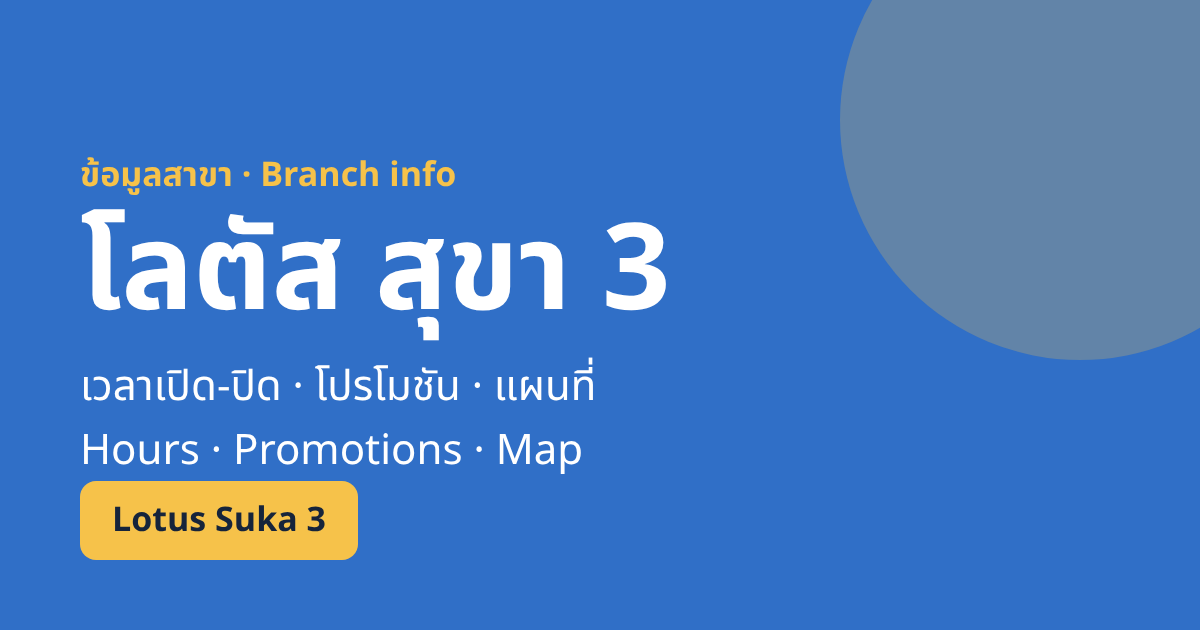
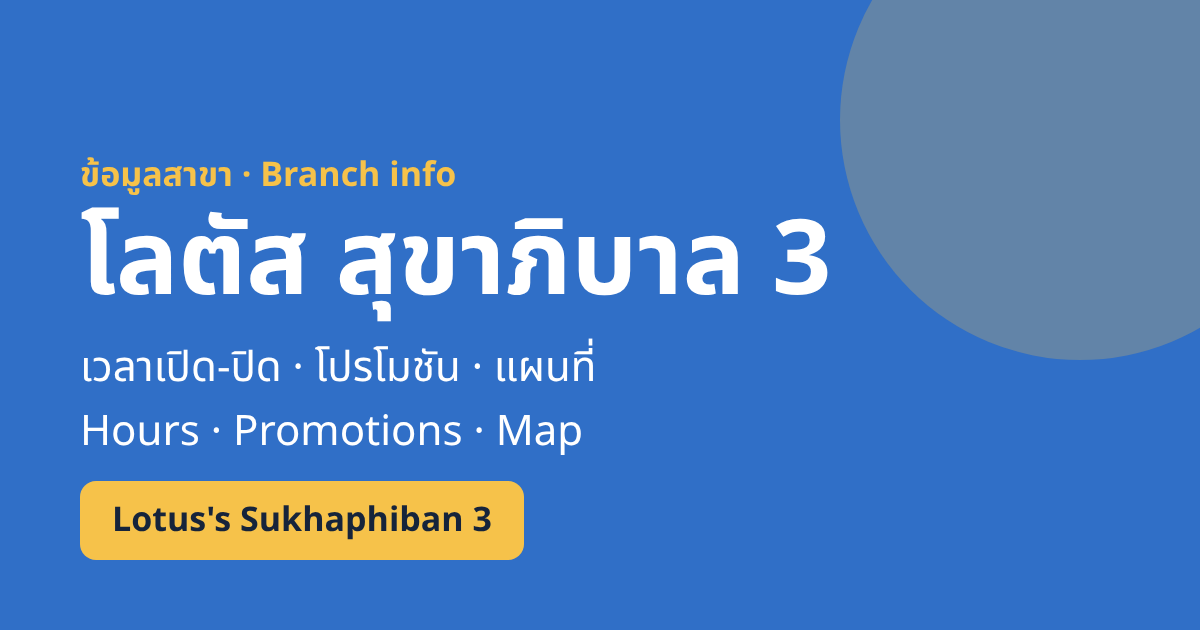
Use branch name/coordinates/map link from Google Maps (Sukhaphiban 3)
Claude-Session: https://claude.ai/code/session_01LnhFyKSePB6EWg2huw5kvz

Changed region(s): [[0.0617, 0.3317, 0.6167, 0.6333], [0.0617, 0.6635, 0.4933, 0.9048], [0.6475, 0.3317, 0.7092, 0.4825]]

diff --git a/index.html b/index.html
@@ -3,8 +3,8 @@
 <head>
 <meta charset="utf-8">
 <meta name="viewport" content="width=device-width, initial-scale=1">
-<title>โลตัส สุขา 3 เวลาเปิด-ปิด โปรโมชัน เบอร์โทร แผนที่</title>
-<meta name="description" content="ข้อมูลสาขาโลตัส สุขา 3: เวลาเปิด-ปิด โปรโมชันประจำสัปดาห์ เบอร์โทร แผนที่นำทาง ที่จอดรถ และร้านค้าในศูนย์">
+<title>โลตัส สุขาภิบาล 3 เวลาเปิด-ปิด โปรโมชัน เบอร์โทร แผนที่</title>
+<meta name="description" content="ข้อมูลสาขาโลตัส สุขาภิบาล 3: เวลาเปิด-ปิด โปรโมชันประจำสัปดาห์ เบอร์โทร แผนที่นำทาง ที่จอดรถ และร้านค้าในศูนย์">
 <meta name="theme-color" content="#306FC7">
 
 
@@ -13,14 +13,14 @@
 <link rel="alternate" hreflang="en" href="https://waranyulotuss.github.io/lotus-suka3/en/">
 <link rel="alternate" hreflang="x-default" href="https://waranyulotuss.github.io/lotus-suka3/">
 <meta property="og:type" content="website">
-<meta property="og:site_name" content="โลตัส สุขา 3">
-<meta property="og:title" content="โลตัส สุขา 3 เวลาเปิด-ปิด โปรโมชัน เบอร์โทร แผนที่">
-<meta property="og:description" content="ข้อมูลสาขาโลตัส สุขา 3: เวลาเปิด-ปิด โปรโมชันประจำสัปดาห์ เบอร์โทร แผนที่นำทาง ที่จอดรถ และร้านค้าในศูนย์">
+<meta property="og:site_name" content="โลตัส สุขาภิบาล 3">
+<meta property="og:title" content="โลตัส สุขาภิบาล 3 เวลาเปิด-ปิด โปรโมชัน เบอร์โทร แผนที่">
+<meta property="og:description" content="ข้อมูลสาขาโลตัส สุขาภิบาล 3: เวลาเปิด-ปิด โปรโมชันประจำสัปดาห์ เบอร์โทร แผนที่นำทาง ที่จอดรถ และร้านค้าในศูนย์">
 <meta property="og:url" content="https://waranyulotuss.github.io/lotus-suka3/">
 <meta property="og:image" content="https://waranyulotuss.github.io/lotus-suka3/assets/img/og.png">
 <meta property="og:image:width" content="1200">
 <meta property="og:image:height" content="630">
-<meta property="og:image:alt" content="โลตัส สุขา 3 ข้อมูลสาขา">
+<meta property="og:image:alt" content="โลตัส สุขาภิบาล 3 ข้อมูลสาขา">
 <meta property="og:locale" content="th_TH">
 <meta property="og:locale:alternate" content="en_US">
 <meta name="twitter:card" content="summary_large_image">
@@ -33,10 +33,15 @@
 {
   "@context": "https://schema.org",
   "@type": "GroceryStore",
-  "name": "โลตัส สุขา 3",
+  "name": "โลตัส สุขาภิบาล 3",
   "url": "https://waranyulotuss.github.io/lotus-suka3/",
   "image": "https://waranyulotuss.github.io/lotus-suka3/assets/img/og.png",
-  "inLanguage": "th"
+  "inLanguage": "th",
+  "geo": {
+    "@type": "GeoCoordinates",
+    "latitude": 13.8067835,
+    "longitude": 100.7250887
+  }
 }
 </script>
 <script>try{if(localStorage.getItem('lang')==='en'&&!/[?&]nolang/.test(location.search)){location.replace('en/'+location.search+location.hash)}}catch(e){}</script>
@@ -45,7 +50,7 @@
 <a class="skip" href="#main" data-i18n="skip">ข้ามไปเนื้อหา</a>
 <header class="top">
   <div class="top__row">
-    <a class="brand" href="./" aria-label="โลตัส สุขา 3"><span class="brand__mark" aria-hidden="true"></span><span data-brand>สาขา สุขา 3</span></a>
+    <a class="brand" href="./" aria-label="โลตัส สุขาภิบาล 3"><span class="brand__mark" aria-hidden="true"></span><span data-brand>สาขา สุขาภิบาล 3</span></a>
     <a class="langbtn" href="en/" hreflang="en" lang="en" data-setlang="en" aria-label="Switch to English" data-i18n-attr="aria-label:lang.switch.label"><span data-i18n="lang.switch">English</span></a>
   </div>
   <nav class="top__nav" aria-label="เมนูหลัก" data-i18n-attr="aria-label:nav.label"><a href="#promos" data-i18n="nav.promos">โปรโมชัน</a><a href="#services" data-i18n="nav.services">บริการ</a><a href="#visit" data-i18n="nav.visit">เดินทาง</a><a href="#hours" data-i18n="nav.hours">เวลา/ติดต่อ</a><a href="#order" data-i18n="nav.order">สั่งออนไลน์</a></nav>
@@ -55,7 +60,7 @@
 <section class="hero" id="top">
   <div class="wrap hero__in">
     <p class="hero__kicker" data-i18n="hero.kicker">ข้อมูลสาขา</p>
-    <h1 data-brand-name>โลตัส สุขา 3</h1>
+    <h1 data-brand-name>โลตัส สุขาภิบาล 3</h1>
     <p class="hero__tag" data-i18n="hero.tagline">เวลาเปิด-ปิด โปรโมชัน และเส้นทางมาสาขา ครบในหน้าเดียว</p>
     <p class="status" id="status" role="status" aria-live="polite"><span class="status__dot" aria-hidden="true"></span><strong id="status-main" data-i18n="status.loading">กำลังตรวจสอบเวลา…</strong><span id="status-sub"></span></p>
     <div class="actions">

diff --git a/en/index.html b/en/index.html
@@ -3,8 +3,8 @@
 <head>
 <meta charset="utf-8">
 <meta name="viewport" content="width=device-width, initial-scale=1">
-<title>Lotus Suka 3 – Opening Hours, Promotions, Phone, Map</title>
-<meta name="description" content="Lotus Suka 3 branch info: opening hours, weekly promotions, phone number, map directions, parking and in-mall shops.">
+<title>Lotus's Sukhaphiban 3 – Hours, Promotions, Phone, Map</title>
+<meta name="description" content="Lotus's Sukhaphiban 3 branch info: opening hours, weekly promotions, phone number, map directions, parking and in-mall shops.">
 <meta name="theme-color" content="#306FC7">
 
 
@@ -13,14 +13,14 @@
 <link rel="alternate" hreflang="en" href="https://waranyulotuss.github.io/lotus-suka3/en/">
 <link rel="alternate" hreflang="x-default" href="https://waranyulotuss.github.io/lotus-suka3/">
 <meta property="og:type" content="website">
-<meta property="og:site_name" content="Lotus Suka 3">
-<meta property="og:title" content="Lotus Suka 3 – Opening Hours, Promotions, Phone, Map">
-<meta property="og:description" content="Lotus Suka 3 branch info: opening hours, weekly promotions, phone number, map directions, parking and in-mall shops.">
+<meta property="og:site_name" content="Lotus's Sukhaphiban 3">
+<meta property="og:title" content="Lotus's Sukhaphiban 3 – Hours, Promotions, Phone, Map">
+<meta property="og:description" content="Lotus's Sukhaphiban 3 branch info: opening hours, weekly promotions, phone number, map directions, parking and in-mall shops.">
 <meta property="og:url" content="https://waranyulotuss.github.io/lotus-suka3/en/">
 <meta property="og:image" content="https://waranyulotuss.github.io/lotus-suka3/assets/img/og.png">
 <meta property="og:image:width" content="1200">
 <meta property="og:image:height" content="630">
-<meta property="og:image:alt" content="Lotus Suka 3 branch information">
+<meta property="og:image:alt" content="Lotus's Sukhaphiban 3 branch information">
 <meta property="og:locale" content="en_US">
 <meta property="og:locale:alternate" content="th_TH">
 <meta name="twitter:card" content="summary_large_image">
@@ -33,10 +33,15 @@
 {
   "@context": "https://schema.org",
   "@type": "GroceryStore",
-  "name": "Lotus Suka 3",
+  "name": "Lotus's Sukhaphiban 3",
   "url": "https://waranyulotuss.github.io/lotus-suka3/en/",
   "image": "https://waranyulotuss.github.io/lotus-suka3/assets/img/og.png",
-  "inLanguage": "en"
+  "inLanguage": "en",
+  "geo": {
+    "@type": "GeoCoordinates",
+    "latitude": 13.8067835,
+    "longitude": 100.7250887
+  }
 }
 </script>
 
@@ -45,7 +50,7 @@
 <a class="skip" href="#main" data-i18n="skip">Skip to content</a>
 <header class="top">
   <div class="top__row">
-    <a class="brand" href="./" aria-label="Lotus Suka 3"><span class="brand__mark" aria-hidden="true"></span><span data-brand>Suka 3 Branch</span></a>
+    <a class="brand" href="./" aria-label="Lotus's Sukhaphiban 3"><span class="brand__mark" aria-hidden="true"></span><span data-brand>Sukhaphiban 3 Branch</span></a>
     <a class="langbtn" href="../" hreflang="th" lang="th" data-setlang="th" aria-label="เปลี่ยนเป็นภาษาไทย" data-i18n-attr="aria-label:lang.switch.label"><span data-i18n="lang.switch">ไทย</span></a>
   </div>
   <nav class="top__nav" aria-label="Main menu" data-i18n-attr="aria-label:nav.label"><a href="#promos" data-i18n="nav.promos">Promotions</a><a href="#services" data-i18n="nav.services">Services</a><a href="#visit" data-i18n="nav.visit">Getting here</a><a href="#hours" data-i18n="nav.hours">Hours &amp; contact</a><a href="#order" data-i18n="nav.order">Order online</a></nav>
@@ -55,7 +60,7 @@
 <section class="hero" id="top">
   <div class="wrap hero__in">
     <p class="hero__kicker" data-i18n="hero.kicker">Branch information</p>
-    <h1 data-brand-name>Lotus Suka 3</h1>
+    <h1 data-brand-name>Lotus's Sukhaphiban 3</h1>
     <p class="hero__tag" data-i18n="hero.tagline">Opening hours, promotions and directions, all on one page</p>
     <p class="status" id="status" role="status" aria-live="polite"><span class="status__dot" aria-hidden="true"></span><strong id="status-main" data-i18n="status.loading">Checking opening hours…</strong><span id="status-sub"></span></p>
     <div class="actions">

diff --git a/privacy.html b/privacy.html
@@ -3,7 +3,7 @@
 <head>
 <meta charset="utf-8">
 <meta name="viewport" content="width=device-width, initial-scale=1">
-<title>นโยบายความเป็นส่วนตัว | โลตัส สุขา 3</title>
+<title>นโยบายความเป็นส่วนตัว | โลตัส สุขาภิบาล 3</title>
 <meta name="description" content="หน้าเว็บนี้เป็นหน้าข้อมูลของสาขา ไม่มีแบบฟอร์ม ไม่มีระบบสมัครสมาชิก และไม่เก็บข้อมูลส่วนบุคคลของผู้เข้าชม เว็บใช้ตัวนับผู้เข้าชมแบบไม่ใช้คุกกี้ (GoatCounter) เพื่อดูจำนวนการเข้าชมและการกดปุ่ม เช่น โทร นำทาง โดยไม่ระบุตัวตนและไม่ติดตามข้ามเว็บ">
 <meta name="theme-color" content="#306FC7">
 
@@ -13,14 +13,14 @@
 <link rel="alternate" hreflang="en" href="https://waranyulotuss.github.io/lotus-suka3/en/privacy.html">
 <link rel="alternate" hreflang="x-default" href="https://waranyulotuss.github.io/lotus-suka3/privacy.html">
 <meta property="og:type" content="website">
-<meta property="og:site_name" content="โลตัส สุขา 3">
-<meta property="og:title" content="นโยบายความเป็นส่วนตัว | โลตัส สุขา 3">
+<meta property="og:site_name" content="โลตัส สุขาภิบาล 3">
+<meta property="og:title" content="นโยบายความเป็นส่วนตัว | โลตัส สุขาภิบาล 3">
 <meta property="og:description" content="หน้าเว็บนี้เป็นหน้าข้อมูลของสาขา ไม่มีแบบฟอร์ม ไม่มีระบบสมัครสมาชิก และไม่เก็บข้อมูลส่วนบุคคลของผู้เข้าชม เว็บใช้ตัวนับผู้เข้าชมแบบไม่ใช้คุกกี้ (GoatCounter) เพื่อดูจำนวนการเข้าชมและการกดปุ่ม เช่น โทร นำทาง โดยไม่ระบุตัวตนและไม่ติดตามข้ามเว็บ">
 <meta property="og:url" content="https://waranyulotuss.github.io/lotus-suka3/privacy.html">
 <meta property="og:image" content="https://waranyulotuss.github.io/lotus-suka3/assets/img/og.png">
 <meta property="og:image:width" content="1200">
 <meta property="og:image:height" content="630">
-<meta property="og:image:alt" content="โลตัส สุขา 3 ข้อมูลสาขา">
+<meta property="og:image:alt" content="โลตัส สุขาภิบาล 3 ข้อมูลสาขา">
 <meta property="og:locale" content="th_TH">
 <meta property="og:locale:alternate" content="en_US">
 <meta name="twitter:card" content="summary_large_image">

diff --git a/en/privacy.html b/en/privacy.html
@@ -3,7 +3,7 @@
 <head>
 <meta charset="utf-8">
 <meta name="viewport" content="width=device-width, initial-scale=1">
-<title>Privacy Policy | Lotus Suka 3</title>
+<title>Privacy Policy | Lotus's Sukhaphiban 3</title>
 <meta name="description" content="This is a branch information page. It has no forms, no accounts, and does not collect visitors' personal data. It uses a cookie-free visitor counter (GoatCounter) to count visits and button clicks such as call and directions, anonymously and without cross-site tracking.">
 <meta name="theme-color" content="#306FC7">
 
@@ -13,14 +13,14 @@
 <link rel="alternate" hreflang="en" href="https://waranyulotuss.github.io/lotus-suka3/en/privacy.html">
 <link rel="alternate" hreflang="x-default" href="https://waranyulotuss.github.io/lotus-suka3/privacy.html">
 <meta property="og:type" content="website">
-<meta property="og:site_name" content="Lotus Suka 3">
-<meta property="og:title" content="Privacy Policy | Lotus Suka 3">
+<meta property="og:site_name" content="Lotus's Sukhaphiban 3">
+<meta property="og:title" content="Privacy Policy | Lotus's Sukhaphiban 3">
 <meta property="og:description" content="This is a branch information page. It has no forms, no accounts, and does not collect visitors' personal data. It uses a cookie-free visitor counter (GoatCounter) to count visits and button clicks such as call and directions, anonymously and without cross-site tracking.">
 <meta property="og:url" content="https://waranyulotuss.github.io/lotus-suka3/en/privacy.html">
 <meta property="og:image" content="https://waranyulotuss.github.io/lotus-suka3/assets/img/og.png">
 <meta property="og:image:width" content="1200">
 <meta property="og:image:height" content="630">
-<meta property="og:image:alt" content="Lotus Suka 3 branch information">
+<meta property="og:image:alt" content="Lotus's Sukhaphiban 3 branch information">
 <meta property="og:locale" content="en_US">
 <meta property="og:locale:alternate" content="th_TH">
 <meta name="twitter:card" content="summary_large_image">

diff --git a/docs/seo-plan.md b/docs/seo-plan.md
@@ -1,4 +1,4 @@
-# แผนโครงสร้างเว็บและ SEO ท้องถิ่น — โลตัส สุขา 3 (TH/EN)
+# แผนโครงสร้างเว็บและ SEO ท้องถิ่น — โลตัส สุขาภิบาล 3 (TH/EN)
 
 สถานะ: **แผน (draft)** ตรวจจากโค้ดจริงวันที่ 2026-11-17 · ยังไม่มีข้อมูล Search Console/ปริมาณค้นหา จึง **ไม่ประมาณอันดับหรือ traffic** · ข้อมูลสาขาจำนวนมากยังเป็น placeholder
 
@@ -41,7 +41,7 @@
 
 | กลุ่มคำค้น | หน้าเจ้าของ | แหล่งที่แข่งด้วย | หมายเหตุ |
 |---|---|---|---|
-| โลตัส สุขา 3 / Lotus Suka 3 (ชื่อสาขา) | `/` และ `/en/` | Google Maps/GBP, เว็บทางการ | เป้าหลักของเว็บ แต่ GBP มักนำในผลท้องถิ่น |
+| โลตัส สุขาภิบาล 3 / Lotus's Sukhaphiban 3 (ชื่อสาขา) | `/` และ `/en/` | Google Maps/GBP, เว็บทางการ | เป้าหลักของเว็บ แต่ GBP มักนำในผลท้องถิ่น |
 | …เวลาเปิด-ปิด, …เบอร์โทร, …แผนที่, …โปรโมชัน | `/` (ส่วนที่ตรงกัน) | GBP, เว็บทางการ | long-tail ตามสาขา ตรงที่สุดกับเว็บนี้ |
 | opening hours / phone / map + ชื่อสาขา (EN) | `/en/` | GBP | ต้องสะกดเหมือน Google Maps |
 | คำกว้างระดับแบรนด์/หมวด (เช่น "โลตัส", "ซูเปอร์มาร์เก็ต") | **ไม่ใช่เป้าของเว็บสาขา** | เว็บทางการ (lotuss.com) | ระบุตรง ๆ ว่าไม่แข่ง เพื่อไม่ทำซ้ำเว็บแม่ ตามบรีฟ |

diff --git a/README.md b/README.md
@@ -1,4 +1,4 @@
-# เว็บข้อมูลสาขา โลตัส สุขา 3 (ไทย/อังกฤษ)
+# เว็บข้อมูลสาขา โลตัส สุขาภิบาล 3 (ไทย/อังกฤษ)
 
 เว็บนี้เป็น **หน้าข้อมูลของสาขา ไม่ใช่เว็บไซต์ทางการของ Lotus** ข้อความนี้แสดงอยู่ท้ายเว็บทุกหน้า
 
@@ -73,7 +73,7 @@
 - ยืนยันความเป็นเจ้าของใน Google Search Console แล้วส่ง `sitemap.xml`
 - ติด QR ในสาขา และใส่ลิงก์เว็บในโพสต์ Facebook/LINE
 - ยืนยันกับส่วนกลางก่อนใช้โลโก้ Lotus (ตอนนี้ใช้ข้อความล้วน)
-- ตรวจตัวสะกดชื่อภาษาอังกฤษ ("Lotus Suka 3") ให้ตรงกับที่ใช้ใน Google Maps
+- ตรวจตัวสะกดชื่อภาษาอังกฤษ ("Lotus's Sukhaphiban 3") ให้ตรงกับที่ใช้ใน Google Maps
 
 ## โครงไฟล์
 `index.html` (ไทย) · `en/index.html` (อังกฤษ) · `assets/` · `data/` · `i18n/` · `sitemap.xml` · `robots.txt` · `404.html` · `tools/` (สคริปต์สร้างหน้าและ QR)
